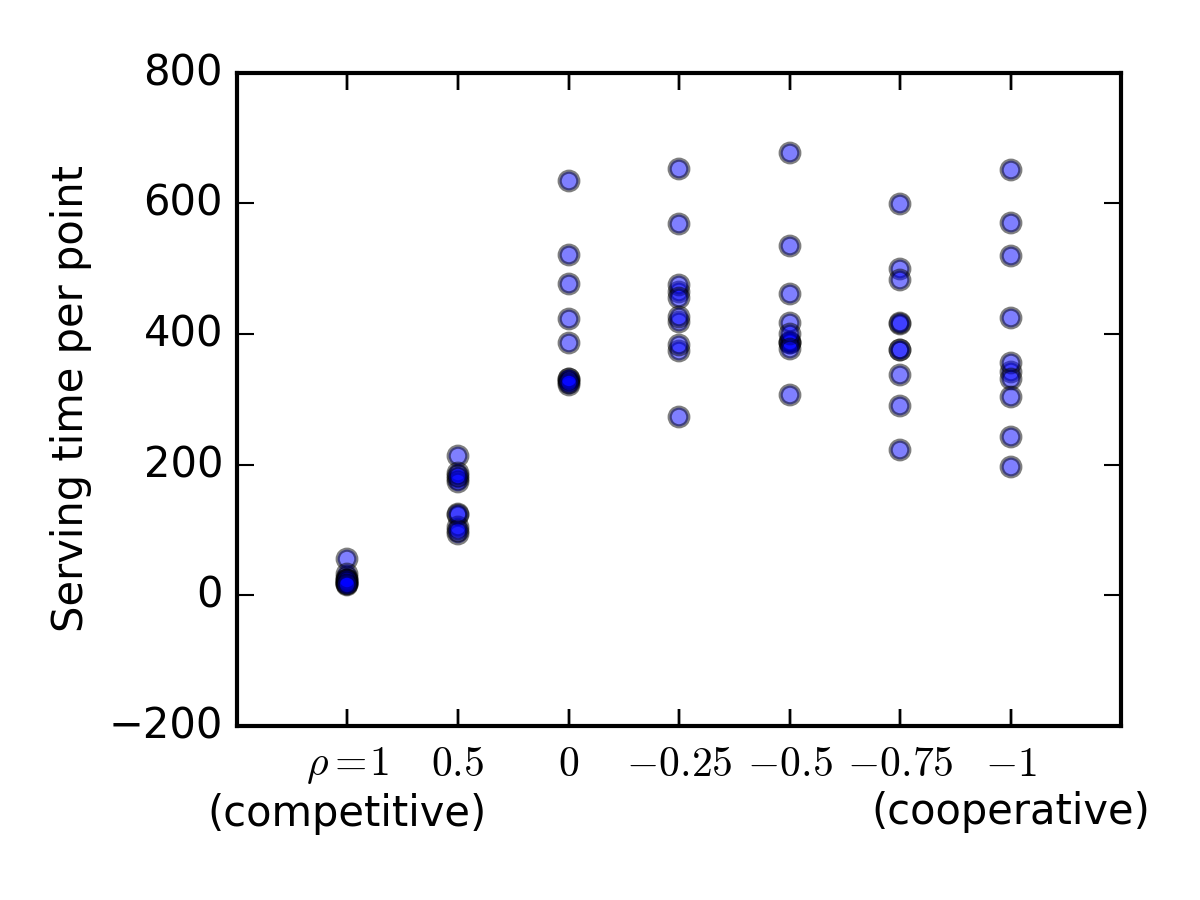
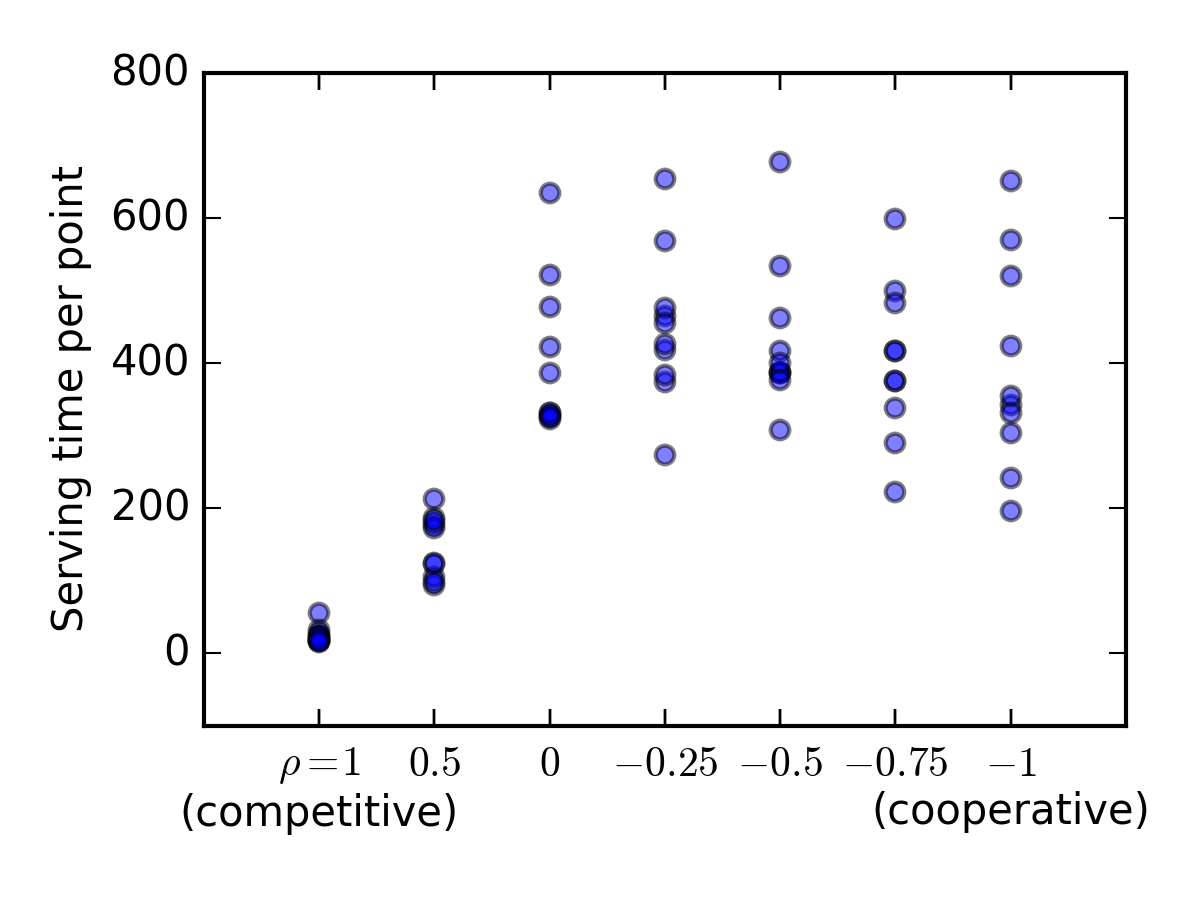
Removed negative labels from scatter plots.

diff --git a/plots/scatter.py b/plots/scatter.py
@@ -73,8 +73,9 @@ plt.ylabel("Paddle-bounces per point")
 #ax = plt.gca()
 #ax.set_yscale("log")
 plt.xticks(x, labels)
-plt.locator_params(axis='y', nbins=5)
+plt.locator_params(axis='y', nbins=7)
 plt.xlim((-1, sideBouncePerPoint.shape[0]))
+plt.ylim(ymin=-400)
 plt.tight_layout()
 plt.savefig('sidebounces_per_point_scatter.png', dpi=dpi)
 
@@ -84,8 +85,9 @@ plt.ylabel("Wall-bounces per paddle-bounce")
 #ax = plt.gca()
 #ax.set_yscale("log")
 plt.xticks(x, labels)
-plt.locator_params(axis='y', nbins=5)
+plt.locator_params(axis='y', nbins=7)
 plt.xlim((-1, wallBouncePerSideBounce.shape[0]))
+plt.ylim(ymin=-0.1)
 plt.tight_layout()
 plt.savefig('wallbounces_per_sidebounce_scatter.png', dpi=dpi)
 
@@ -95,7 +97,8 @@ plt.ylabel("Serving time per point")
 #ax = plt.gca()
 #ax.set_yscale("log")
 plt.xticks(x, labels)
-plt.locator_params(axis='y', nbins=5)
+plt.locator_params(axis='y', nbins=7)
 plt.xlim((-1, avgServingTime.shape[0]))
+plt.ylim(ymin=-100)
 plt.tight_layout()
 plt.savefig('serving_time_per_point_scatter.png', dpi=dpi)

diff --git a/plots/plot.py b/plots/plot.py
@@ -153,16 +153,17 @@ for i, file_name in enumerate(csv_files):
   plt.tight_layout()
   plt.savefig('wallbounces_history_%s.png' % suffixes[i], dpi=dpi)
 
-for i, file_name in enumerate(csv_files):
   plt.clf()
   plt.plot(epochs[i], means[i][:,0])
   plt.locator_params(axis='y', nbins=5)
   plt.ylabel("Paddle-bounces per point")
   plt.xlabel("Epoch")
+  #ax = plt.gca()
+  #ax.set_yscale("log")
+  #plt.ylim(ymin=-10)
   plt.tight_layout()
   plt.savefig('sidebounces_history_%s.png' % suffixes[i], dpi=dpi)
 
-for i, file_name in enumerate(csv_files):
   plt.clf()
   plt.plot(epochs[i], means[i][:,2])
   plt.locator_params(axis='y', nbins=5)
